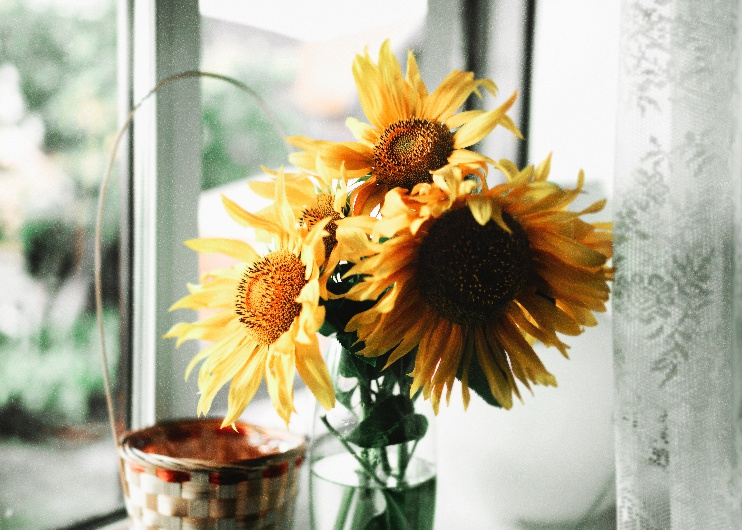
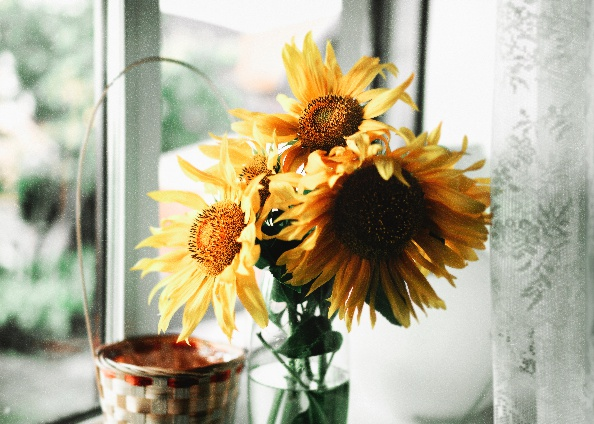
resize_NN from scratch

diff --git a/my_opencv/resize.py b/my_opencv/resize.py
@@ -1,0 +1,35 @@
+from PIL import Image
+import numpy as np
+
+def scale(img, x_fac, y_fac, interpolation="NN"):
+    x, y = img.shape
+    x_new = int(x * x_fac)
+    y_new = int(y * y_fac)
+
+    if interpolation=="NN":
+        scaled_img = np.zeros((x_new, y_new))
+        for i in range(x_new):
+            for j in range(y_new):
+                scaled_img[i, j] = img[int(i//x_fac), int(j//y_fac)]
+        return scaled_img
+
+
+if __name__ == '__main__':
+    # Create an image
+    size = 50
+    img_t = np.zeros((size,size))
+    for i in range(size):
+        if i > size/2:
+            for j in range(size):
+                if j > size/2:
+                    img_t[i, j] = 255.0
+        else:
+            for j in range(size):
+                if j < size/2:
+                    img_t[i, j] = 255.0
+
+    Image.fromarray(img_t.astype(np.uint8)).save('./temp1.jpg')
+
+    scale_img = scale(img_t, 1.5, 1.5, interpolation="NN")
+    Image.fromarray(scale_img.astype(np.uint8)).save('./temp2.jpg')
+    print("The original size is {}, and the size after scaling is {}".format(img_t.shape, scale_img.shape))

diff --git a/resize_image.py b/resize_image.py
@@ -1,12 +1,12 @@
 import cv2
 
 if __name__ == "__main__":
-    name = "nightsky"
+    name = "flower"
     img = cv2.imread('./{}.jpg'.format(name), cv2.IMREAD_UNCHANGED)
     # cv2.imshow("Original image", img)
     print('Original Dimensions : ',img.shape)
 
-    scale_percent = 12      # percent of original size
+    scale_percent = 8      # percent of original size
     width = int(img.shape[1] * scale_percent / 100)
     height = int(img.shape[0] * scale_percent / 100)
     dim = (width, height)

diff --git a/my_opencv/test.py b/my_opencv/test.py
@@ -1,0 +1,16 @@
+from resize import scale
+import cv2
+
+img = cv2.imread('./temp.jpg', cv2.IMREAD_UNCHANGED)
+img = cv2.cvtColor(img, cv2.COLOR_BGR2GRAY)
+cv2.imwrite("./temp_g.jpg",img)
+
+resized = scale(img, 1.5, 1.5)
+cv2.imwrite("./temp_c.jpg",resized)
+resized = cv2.imread('./temp_c.jpg', cv2.IMREAD_UNCHANGED)
+
+cv2.imshow("resize", resized)
+print("The original size is {}, and the size after scaling is {}".format(img.shape, resized.shape))
+
+cv2.waitKey(0)
+cv2.destroyAllWindows()
